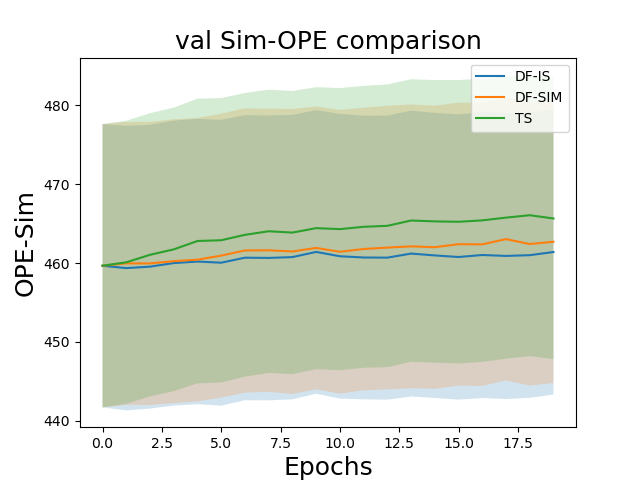
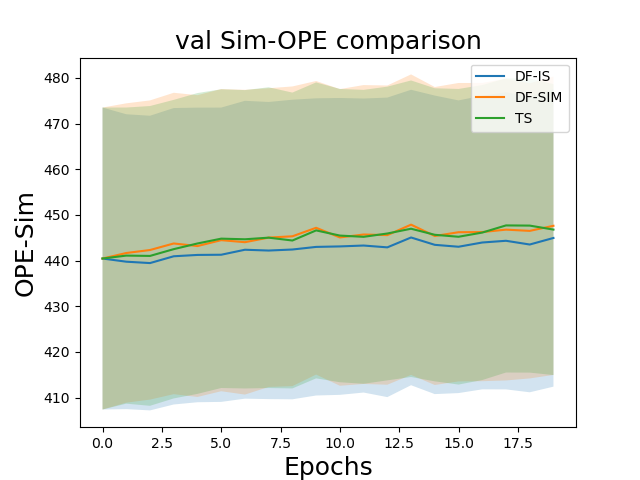
increase number of trials to 100

diff --git a/dfl/train.py b/dfl/train.py
@@ -32,7 +32,7 @@ if __name__ == '__main__':
     
     print ("OPE SETTING IS: ", args.ope)
     n_benefs = 100
-    n_trials = 10
+    n_trials = 100
     L = 10
     K = 20
     n_states = 5
